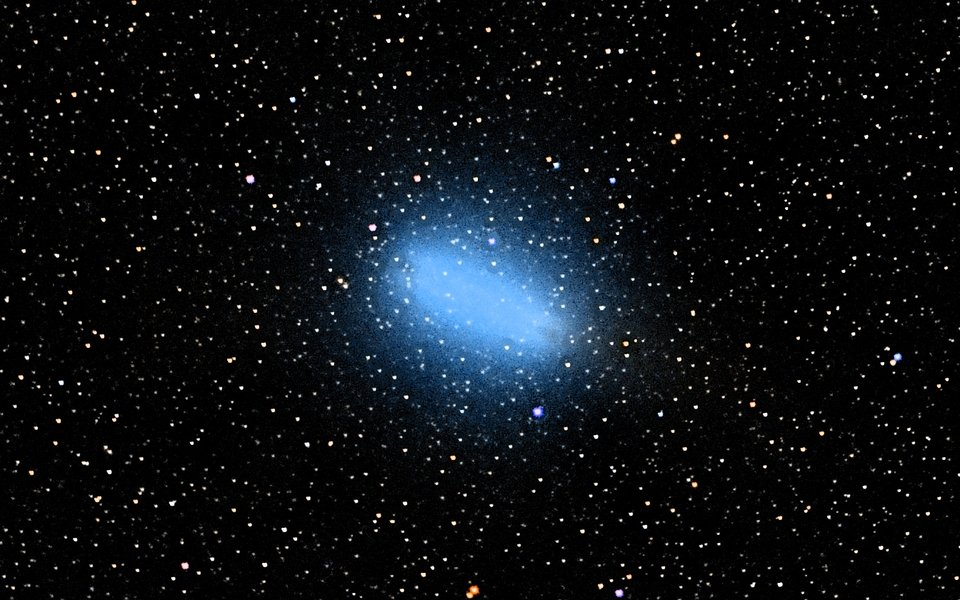
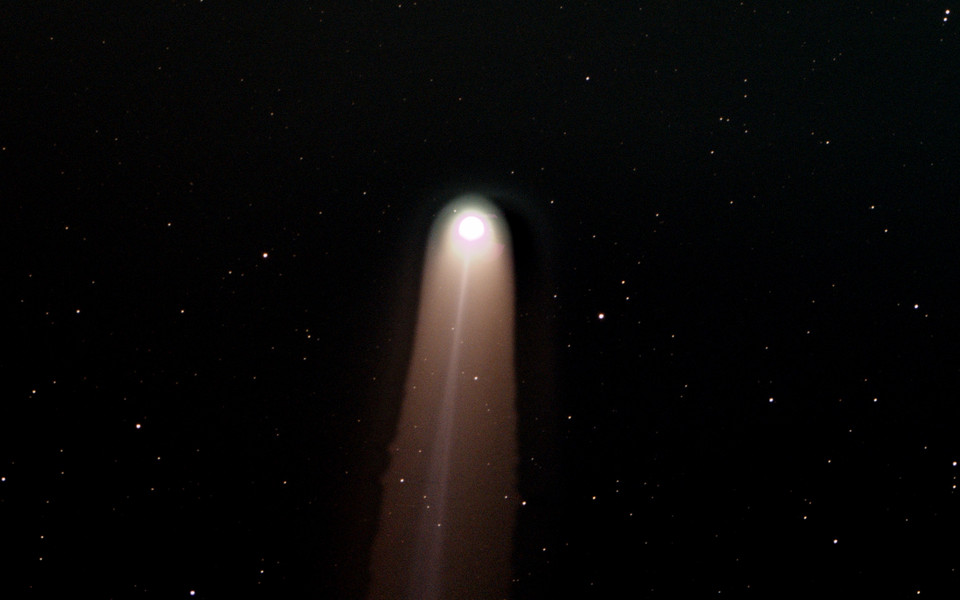
Comet example: a real Lemmon stack instead of the SWAN blob
The Comet goal card's example showed C/2025 R2 (SWAN) as a featureless blue
oval. Replaced with the comet-mode blended stack of C/2025 A6 (Lemmon),
2025-10-30 19:05 (139 frames, --comet-mode --offline), cropped to 960x600.
Caption and its translations updated.

diff --git a/src/desktop_app.py b/src/desktop_app.py
@@ -360,7 +360,7 @@ _TARGET_CARDS = (
      N_('Example star field: Sagittarius Star Cloud (M24), Celestron Origin')),
     ('comet', N_('Comet'),
      N_('Also stacks on the moving nucleus (saved as a second _comet image).'),
-     '', True, 'comet.jpg', N_('Example comet: C/2025 R2 (SWAN), Celestron Origin')),
+     '', True, 'comet.jpg', N_('Example comet: C/2025 A6 (Lemmon), Celestron Origin')),
 )
 # target_inference's source codes, as the phrase shown after a target name.
 _SOURCE_PHRASES = {'session': N_('from the session file'), 'header': N_('from the FITS header'),
